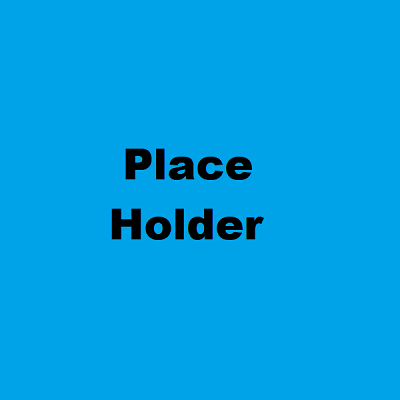
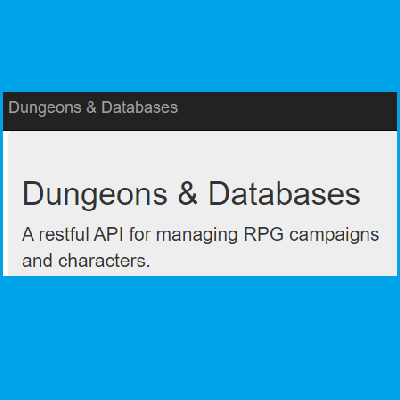
added blue badge project

diff --git a/index.html b/index.html
@@ -272,10 +272,10 @@
                         </div>
                         <div class="carousel-item">
                             <img src="assets/placeholder2.png" alt="Blue Badge" class="portfolioIMG">
-                            <a href="#" target="_blank">
+                            <a href="https://github.com/JoshHambright/DungeonsAndDatabases" target="_blank">
                                 <div class="carousel-caption">
-                                    <h6>Blue Badge Project</h6>
-                                    <p>Place Holder for Blue badge project</p>
+                                    <h6>EFA Blue Badge Project</h6>
+                                    <p>Restful API built with .NET C# WebAPI to allow Dungeon Master and Players to manage characters and campaigns</p>
                                 </div>
                             </a>
                         </div>
